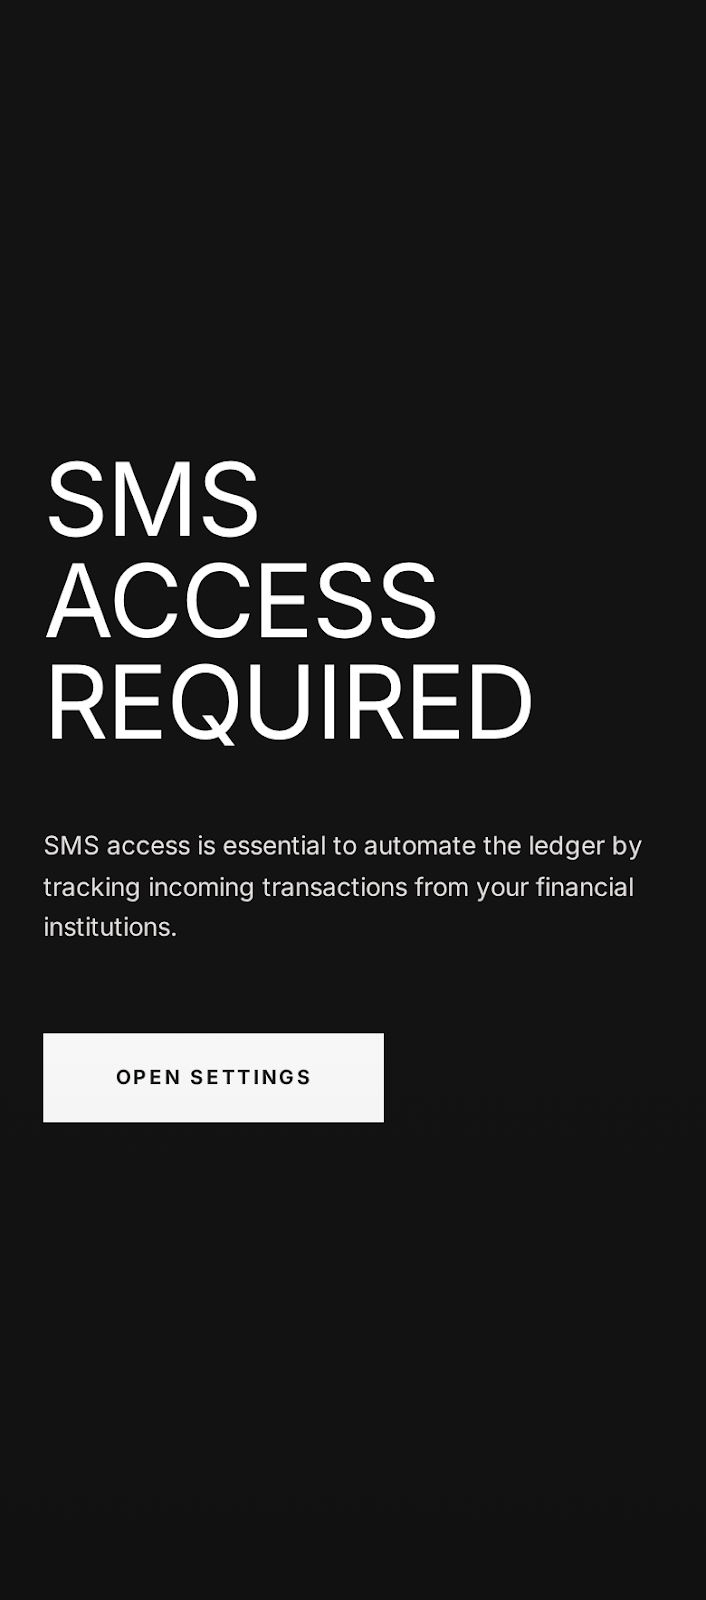
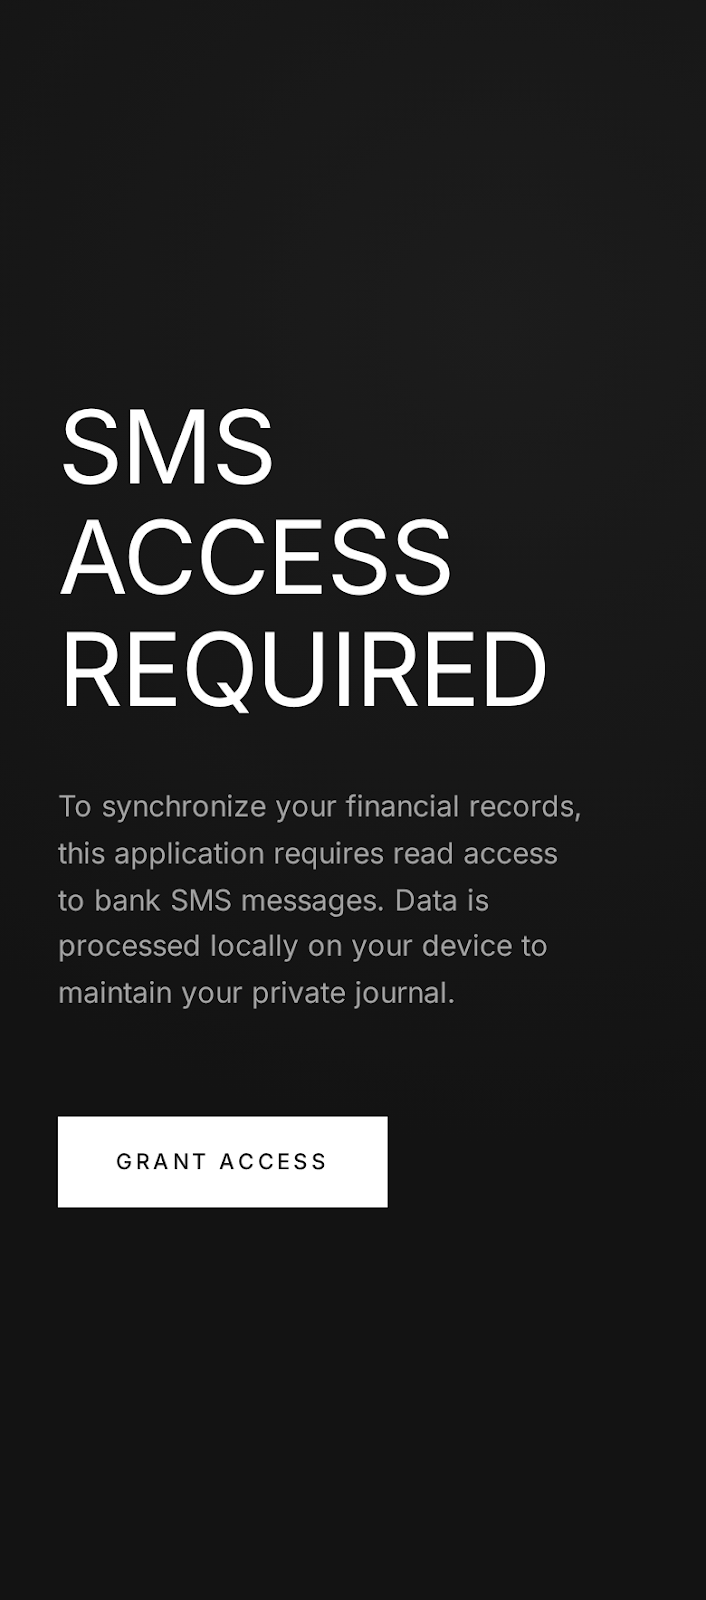
docs: update no-permission screen to match empty state design
Generated with Claude Code

Changed region(s): [[0.0623, 0.5, 0.9037, 0.7812], [0.0623, 0.25, 0.779, 0.4688]]

diff --git a/docs/design/screens/no-permission/reference.html b/docs/design/screens/no-permission/reference.html
@@ -1,138 +1,82 @@
 <!DOCTYPE html>
 
-<html class="dark" lang="en"><head>
+<html lang="en"><head>
 <meta charset="utf-8"/>
 <meta content="width=device-width, initial-scale=1.0" name="viewport"/>
-<title>Permission Required | EXPENSE TRACKER</title>
+<title>SMS Access Required</title>
 <script src="https://cdn.tailwindcss.com?plugins=forms,container-queries"></script>
-<link href="https://fonts.googleapis.com/css2?family=Inter:wght@400;700&amp;display=swap" rel="stylesheet"/>
-<link href="https://fonts.googleapis.com/css2?family=Material+Symbols+Outlined:wght,FILL@100..700,0..1&amp;display=swap" rel="stylesheet"/>
-<link href="https://fonts.googleapis.com/css2?family=Material+Symbols+Outlined:wght,FILL@100..700,0..1&amp;display=swap" rel="stylesheet"/>
-<script id="tailwind-config">
-      tailwind.config = {
-        darkMode: "class",
-        theme: {
-          extend: {
-            colors: {
-              "on-primary-fixed-variant": "#e2e2e2",
-              "on-surface": "#e5e2e1",
-              "on-tertiary": "#1c1b1b",
-              "on-secondary-fixed": "#1b1c1c",
-              "surface-container-low": "#1c1b1b",
-              "secondary-fixed": "#c7c6c6",
-              "inverse-surface": "#e5e2e1",
-              "on-tertiary-fixed": "#ffffff",
-              "inverse-primary": "#5d5f5f",
-              "secondary-container": "#464747",
-              "surface-dim": "#131313",
-              "error-container": "#93000a",
-              "error": "#ffb4ab",
-              "primary-container": "#d4d4d4",
-              "inverse-on-surface": "#313030",
-              "surface-container": "#201f1f",
-              "tertiary-fixed-dim": "#474746",
-              "on-secondary": "#1b1c1c",
-              "outline-variant": "#474747",
-              "on-secondary-fixed-variant": "#3b3b3c",
-              "tertiary-container": "#929090",
-              "surface-tint": "#c6c6c7",
-              "on-background": "#e5e2e1",
-              "primary": "#ffffff",
-              "outline": "#919191",
-              "surface-bright": "#393939",
-              "surface": "#131313",
-              "tertiary": "#e5e2e1",
-              "on-error-container": "#ffdad6",
-              "on-tertiary-container": "#000000",
-              "primary-fixed": "#5d5f5f",
-              "secondary": "#c7c6c6",
-              "background": "#131313",
-              "surface-container-highest": "#353534",
-              "on-tertiary-fixed-variant": "#e5e2e1",
-              "on-primary-fixed": "#ffffff",
-              "on-primary-container": "#000000",
-              "on-primary": "#1a1c1c",
-              "surface-container-lowest": "#0e0e0e",
-              "on-surface-variant": "#c6c6c6",
-              "surface-variant": "#353534",
-              "surface-container-high": "#2a2a2a",
-              "on-error": "#690005",
-              "on-secondary-container": "#e3e2e2",
-              "primary-fixed-dim": "#454747",
-              "secondary-fixed-dim": "#ababab",
-              "tertiary-fixed": "#5f5e5e"
-            },
-            fontFamily: {
-              "headline": ["Inter"],
-              "body": ["Inter"],
-              "label": ["Inter"]
-            },
-            borderRadius: {"DEFAULT": "0px", "lg": "0px", "xl": "0px", "full": "0px"},
-          },
-        },
-      }
-    </script>
+<link href="https://fonts.googleapis.com/css2?family=Inter:wght@400;500&amp;display=swap" rel="stylesheet"/>
 <style>
-        .material-symbols-outlined {
-            font-variation-settings: 'FILL' 0, 'wght' 400, 'GRAD' 0, 'opsz' 24;
-        }
         body {
-            background-color: #131313;
-            color: #e5e2e1;
             font-family: 'Inter', sans-serif;
+            background-color: #131313;
+            color: #E0E0E0;
             margin: 0;
             padding: 0;
+            overflow: hidden;
         }
-        /* Radical Scale and Letter Spacing for Brutalist Editorial Authority */
-        .display-lg {
+
+        /* Subtle radial gradient to match IMAGE_5's depth */
+        .bg-monolithic {
+            background: radial-gradient(circle at 70% 20%, #1c1c1c 0%, #131313 60%);
+            min-height: 100vh;
+            display: flex;
+            flex-direction: column;
+            justify-content: center;
+            padding: 0 2rem;
+        }
+
+        .headline {
             font-size: 3.5rem;
-            line-height: 1;
+            line-height: 1.1;
             letter-spacing: -0.02em;
-            font-weight: 400; /* Bold weights are strictly forbidden */
-        }
-        .label-sm {
-            font-size: 0.6875rem;
-            letter-spacing: 0.1em;
             text-transform: uppercase;
+            font-weight: 400;
+            margin-bottom: 2rem;
+            color: #FFFFFF;
         }
-        .body-md {
-            font-size: 0.875rem;
+
+        .description {
+            font-size: 1rem;
             line-height: 1.6;
+            color: #A3A3A3;
+            max-width: 90%;
+            margin-bottom: 3.5rem;
+        }
+
+        .btn-primary {
+            background-color: #FFFFFF;
+            color: #131313;
+            border-radius: 0; /* Strict 0px radius as per TEXT_9 */
+            padding: 1rem 2rem;
+            font-size: 0.75rem;
+            letter-spacing: 0.15em;
+            text-transform: uppercase;
+            font-weight: 500;
+            display: inline-block;
+            text-align: center;
+            width: fit-content;
+            cursor: pointer;
+            transition: opacity 0.2s;
+        }
+
+        .btn-primary:active {
+            opacity: 0.9;
         }
     </style>
-<style>
-    body {
-      min-height: max(884px, 100dvh);
-    }
-  </style>
 </head>
-<body class="bg-surface text-on-surface flex flex-col min-h-screen">
-<!-- TopAppBar Fragment: Styled from JSON -->
-<!-- Main Content Canvas -->
-<main class="flex-grow flex flex-col items-center justify-center px-6 pt-16 pb-20 min-h-screen py-12">
-<!-- Monolithic Content Block -->
-<div class="max-w-2xl w-full flex flex-col text-left">
-<!-- Status Indicator: Signature Dot -->
-<!-- Headline: Massive Scale, Narrow Tracking -->
-<h2 class="display-lg text-primary mb-10">
+<body class="antialiased">
+<main class="bg-monolithic">
+<div class="max-w-md">
+<h1 class="headline">
                 SMS ACCESS<br/>REQUIRED
-            </h2>
-<!-- Message: Editorial Tension through whitespace -->
-<p class="body-md text-on-surface max-w-lg mb-12">
-                SMS access is essential to automate the ledger by tracking incoming transactions from your financial institutions.
+            </h1>
+<p class="description">
+                To synchronize your financial records, this application requires read access to bank SMS messages. Data is processed locally on your device to maintain your private journal.
             </p>
-<!-- Primary Action: Strictly Rectangular -->
-<div class="flex flex-col items-start gap-6">
-<button class="bg-primary text-on-primary px-10 py-4 label-sm font-bold tracking-[0.15em] hover:bg-secondary transition-none cursor-pointer">
-                    OPEN SETTINGS
-                </button>
-<!-- Footer link -->
+<button class="btn-primary">
+                GRANT ACCESS
+            </button>
 </div>
-</div>
-<!-- Decorative Tonal Slab (Brutalist Element) -->
-<div aria-hidden="true" class="absolute right-0 top-1/2 -translate-y-1/2 w-24 h-96 bg-surface-container-low hidden lg:block"></div>
 </main>
-<!-- BottomNavBar: Styled from JSON -->
-<!-- Ambient Shadow Element for depth layering check -->
-<div class="fixed inset-0 pointer-events-none bg-gradient-to-b from-transparent via-transparent to-black/10"></div>
 </body></html>